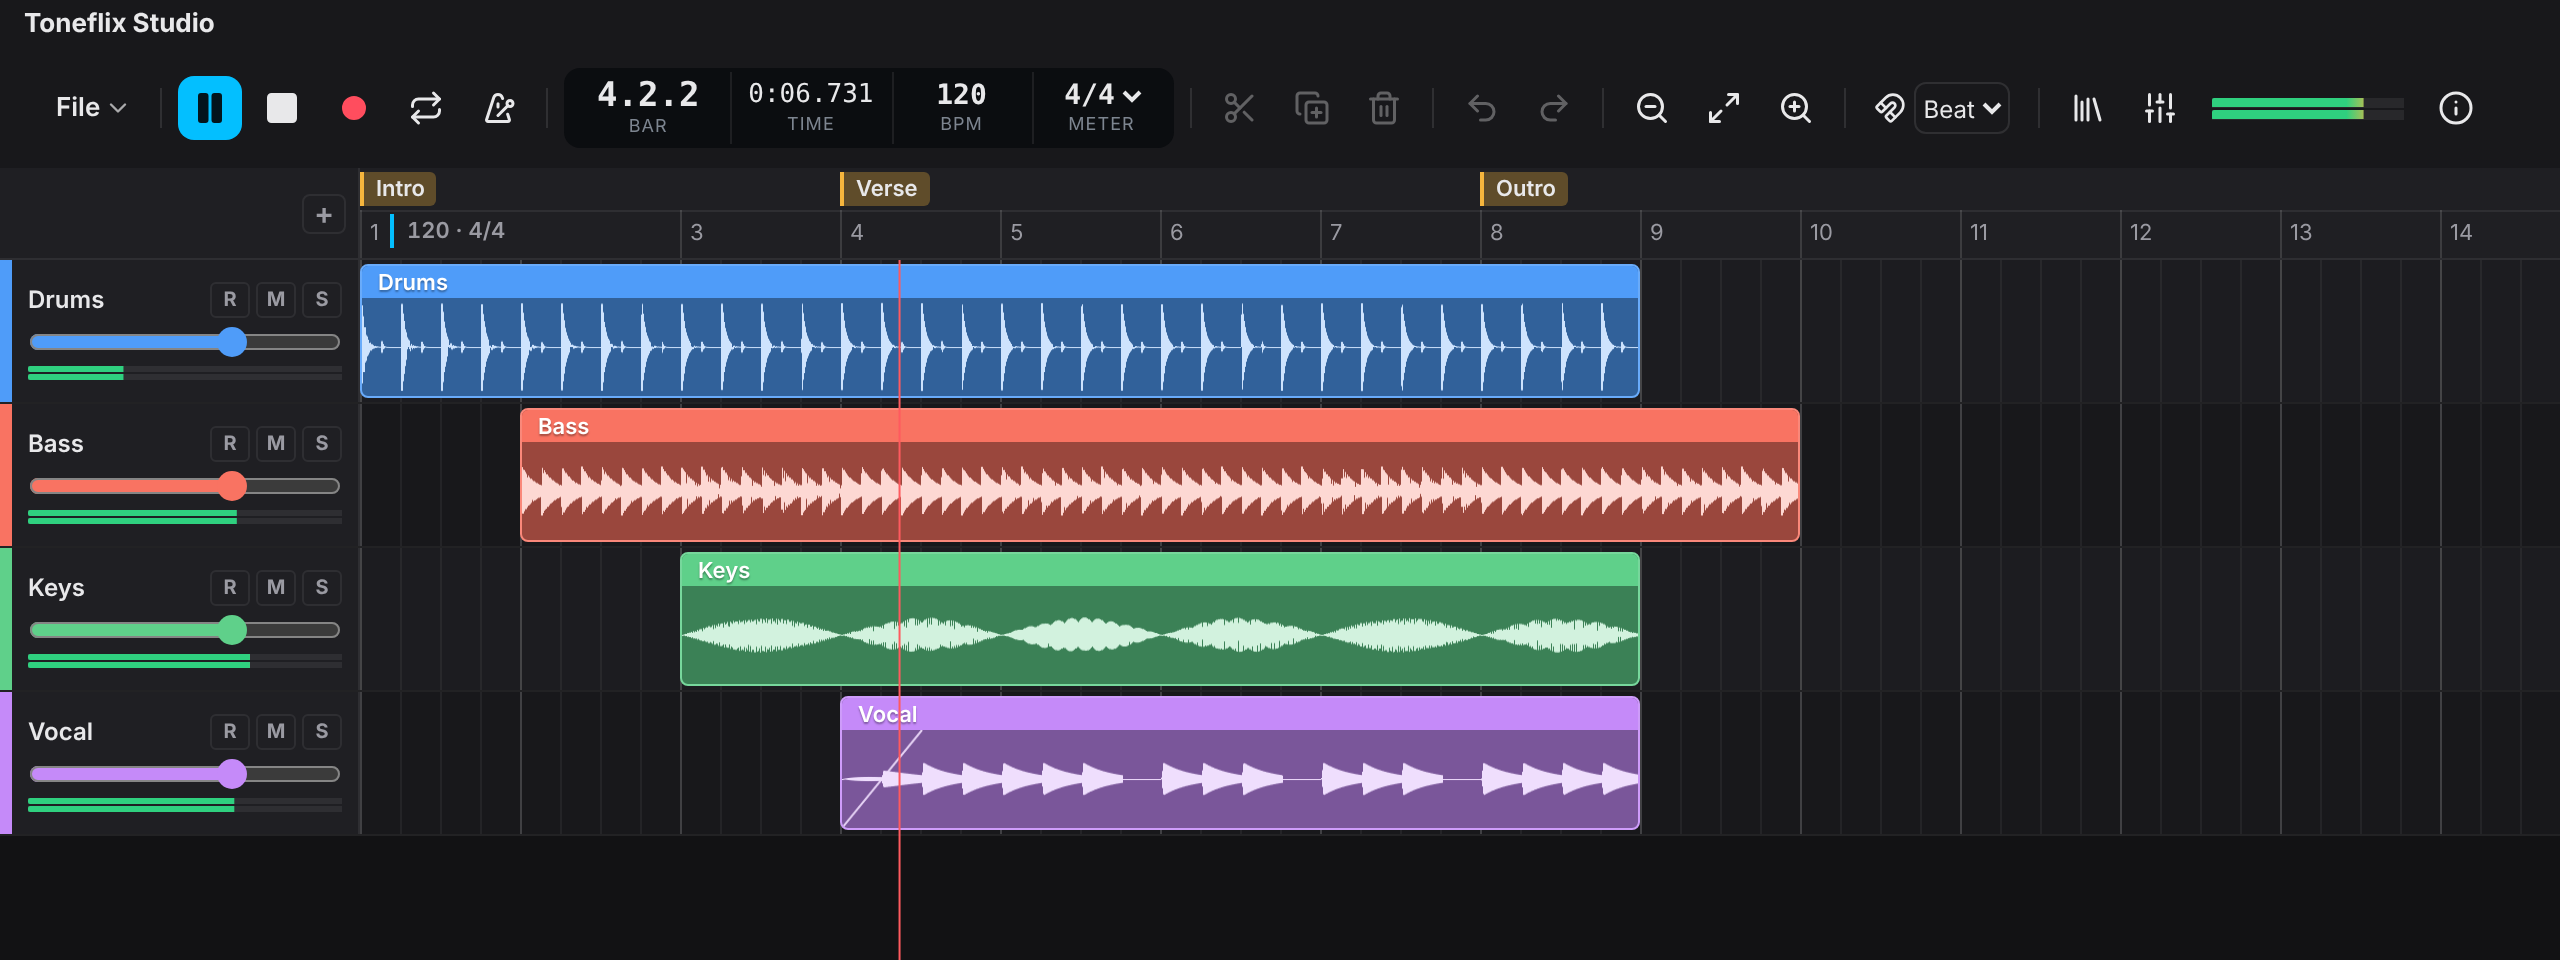
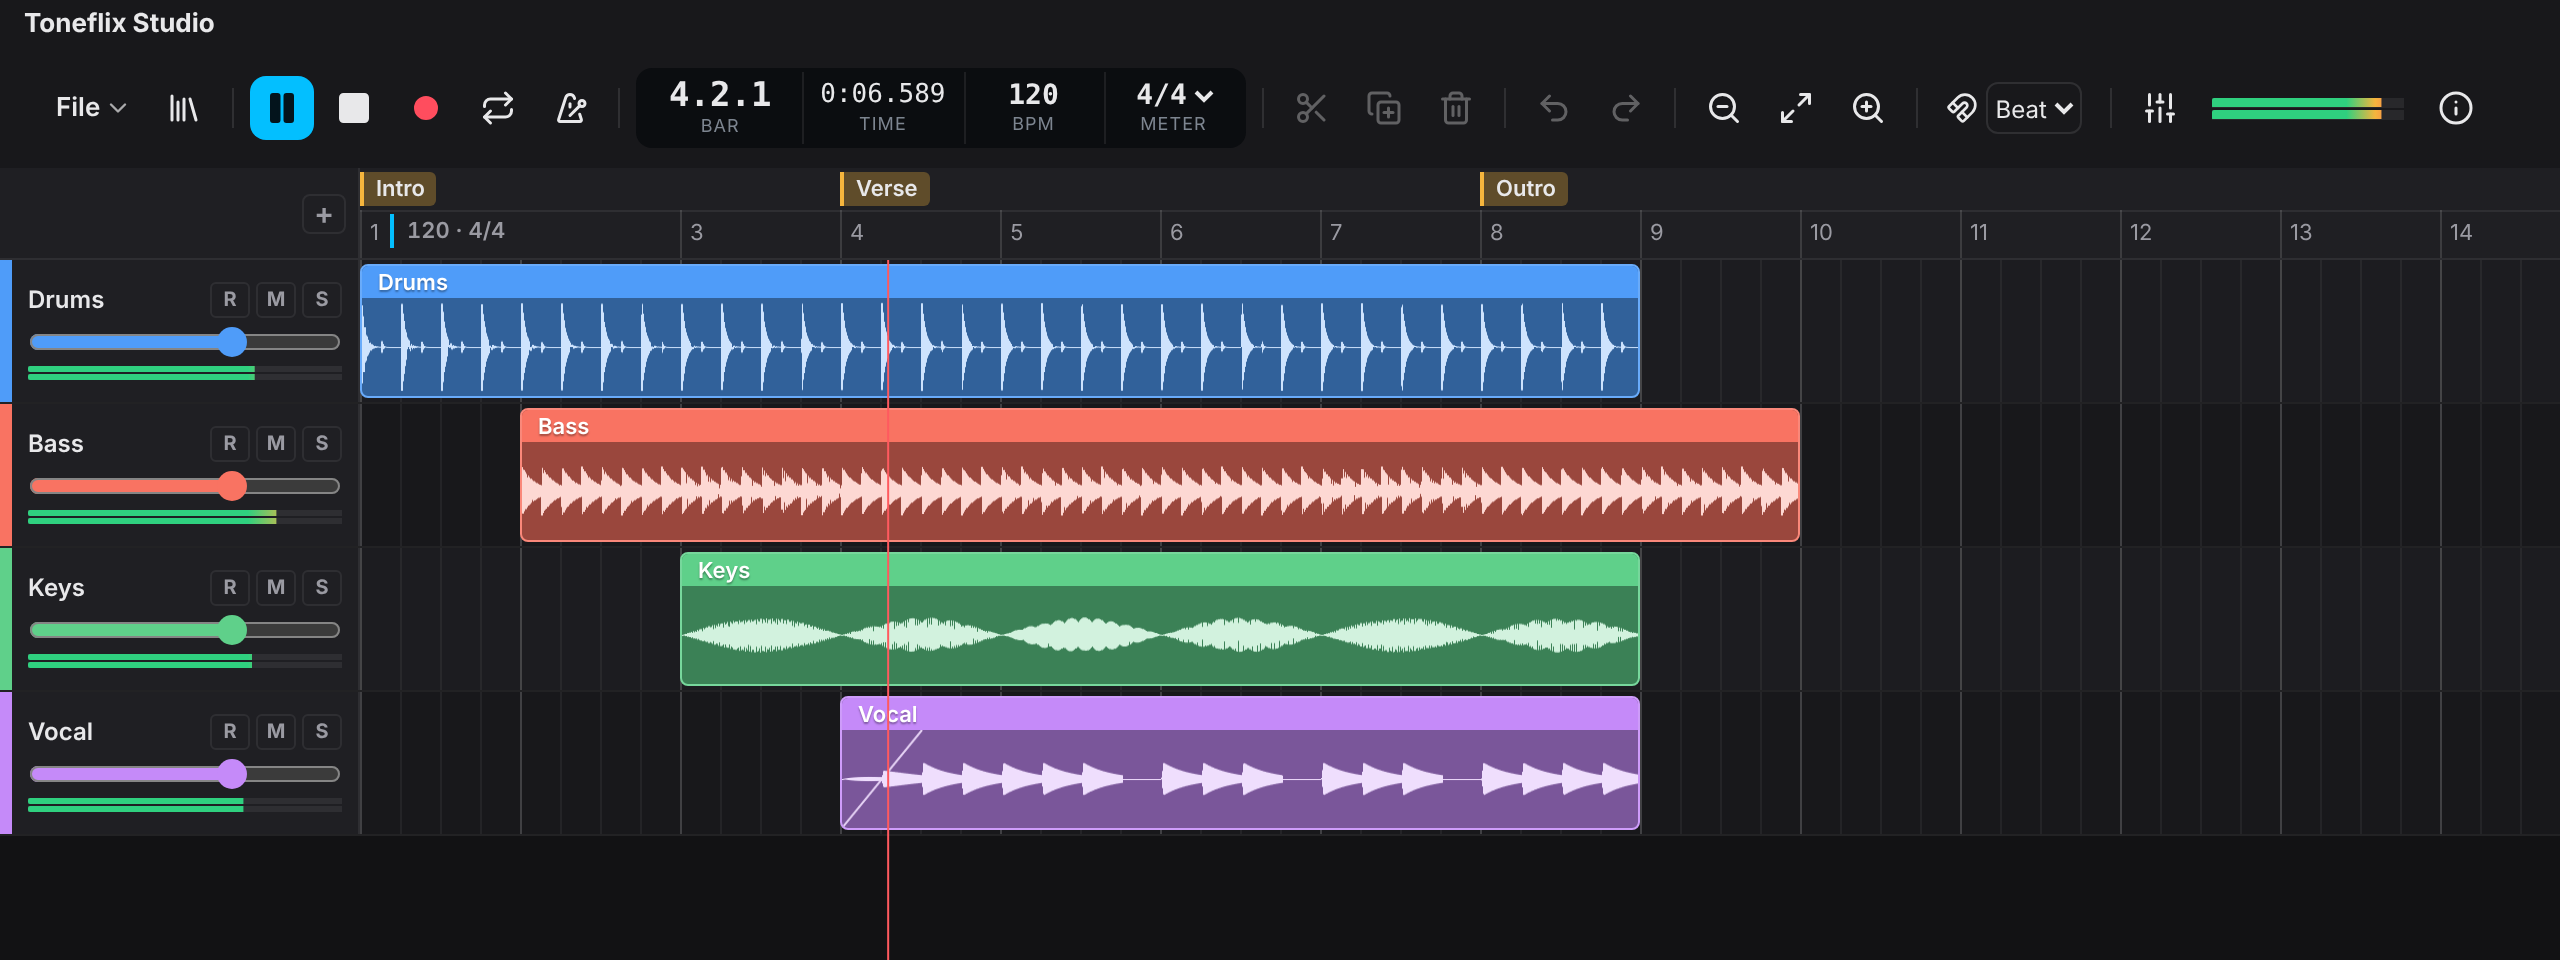
fix(controls): put the browser button beside File

diff --git a/docs/.vitepress/theme/Landing.vue b/docs/.vitepress/theme/Landing.vue
@@ -91,7 +91,7 @@ onMounted(async () => {
     browser,
     recorder,
     plugins,
-    items: ['file', '|', 'play', 'stop', 'record', 'loop', 'metronome', '|', 'display', '|', 'split', 'duplicate', 'delete', '|', 'undo', 'redo', '|', 'zoomOut', 'fit', 'zoomIn', '|', 'browser', 'mixer', 'meter'],
+    items: ['file', 'browser', '|', 'play', 'stop', 'record', 'loop', 'metronome', '|', 'display', '|', 'split', 'duplicate', 'delete', '|', 'undo', 'redo', '|', 'zoomOut', 'fit', 'zoomIn', '|', 'mixer', 'meter'],
     onProjectSource: (id, buffer) => void waveforms.get(`project:${id}:${buffer.length}`, () => buffer).then((peaks) => view.setSource({ id }, peaks)),
   });
   loadSample(view, { engine: audio, waveforms });

diff --git a/packages/controls/src/toolbar.ts b/packages/controls/src/toolbar.ts
@@ -89,6 +89,7 @@ export interface ToolbarOptions {
 
 export const DEFAULT_TOOLBAR: ToolbarItem[] = [
   'file',
+  'browser',
   '|',
   'play',
   'stop',
@@ -111,7 +112,6 @@ export const DEFAULT_TOOLBAR: ToolbarItem[] = [
   '|',
   'snap',
   '|',
-  'browser',
   'mixer',
   'meter',
   'info',

diff --git a/docs/guide/controls.md b/docs/guide/controls.md
@@ -14,7 +14,7 @@ new StudioToolbar('#toolbar', { timeline, engine });
 linkPlayback(timeline, engine);
 ```
 
-The default toolbar has a File menu, play, stop, loop and metronome, the transport display, split, duplicate, delete, undo, redo, zoom, fit, snap, the browser, the mixer, the output meter and info. The File menu opens and saves a [project](./projects), in your app's format or REAPER's, and exports the mix as a WAV file (or calls `onSave`). `openProject`, `saveProject` and `export` are also items of their own, for toolbars that want them as buttons. Undo, redo, split, duplicate and delete are disabled when there's nothing to do. Play turns into pause while playing.
+The default toolbar has a File menu, the browser button beside it, play, stop, loop and metronome, the transport display, split, duplicate, delete, undo, redo, zoom, fit, snap, the mixer, the output meter and info. The File menu opens and saves a [project](./projects), in your app's format or REAPER's, and exports the mix as a WAV file (or calls `onSave`). `openProject`, `saveProject` and `export` are also items of their own, for toolbars that want them as buttons. Undo, redo, split, duplicate and delete are disabled when there's nothing to do. Play turns into pause while playing.
 
 Pick the buttons and their order with `items`. `'|'` adds a divider:
 
